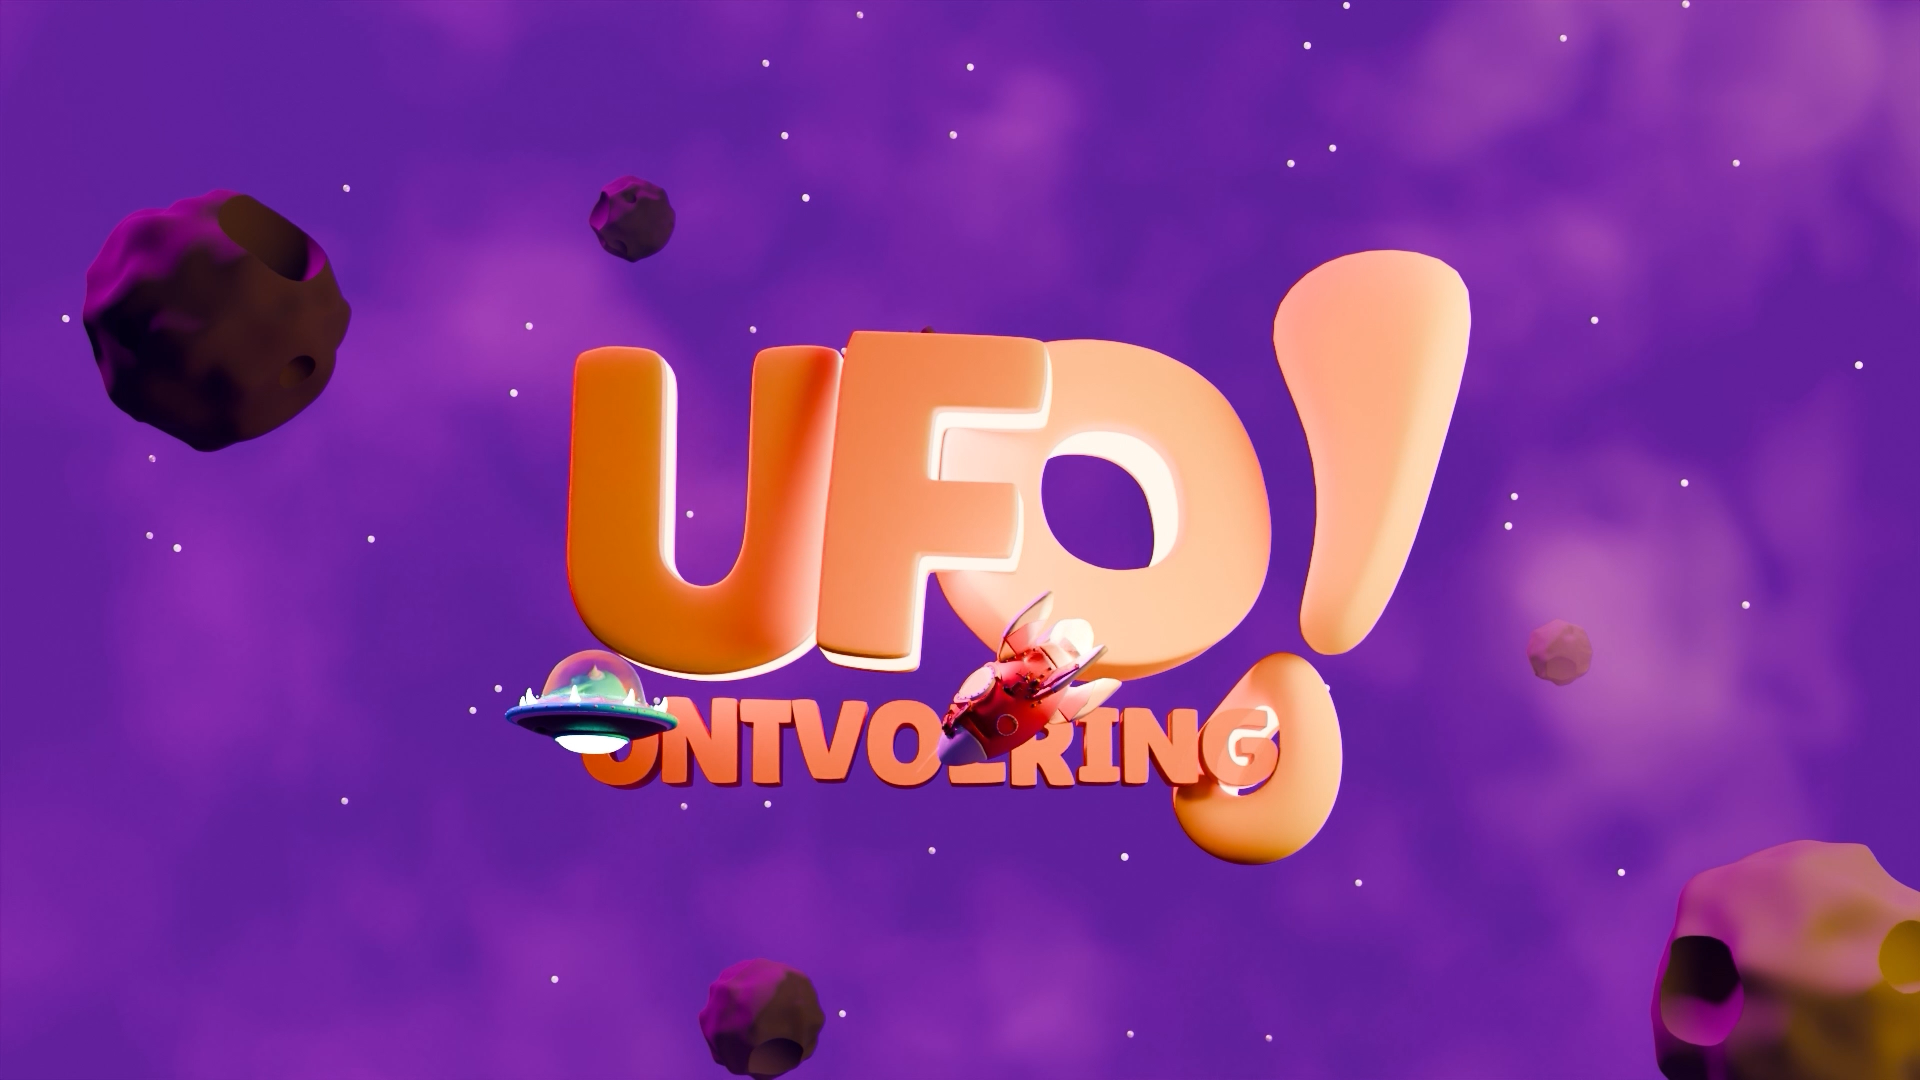
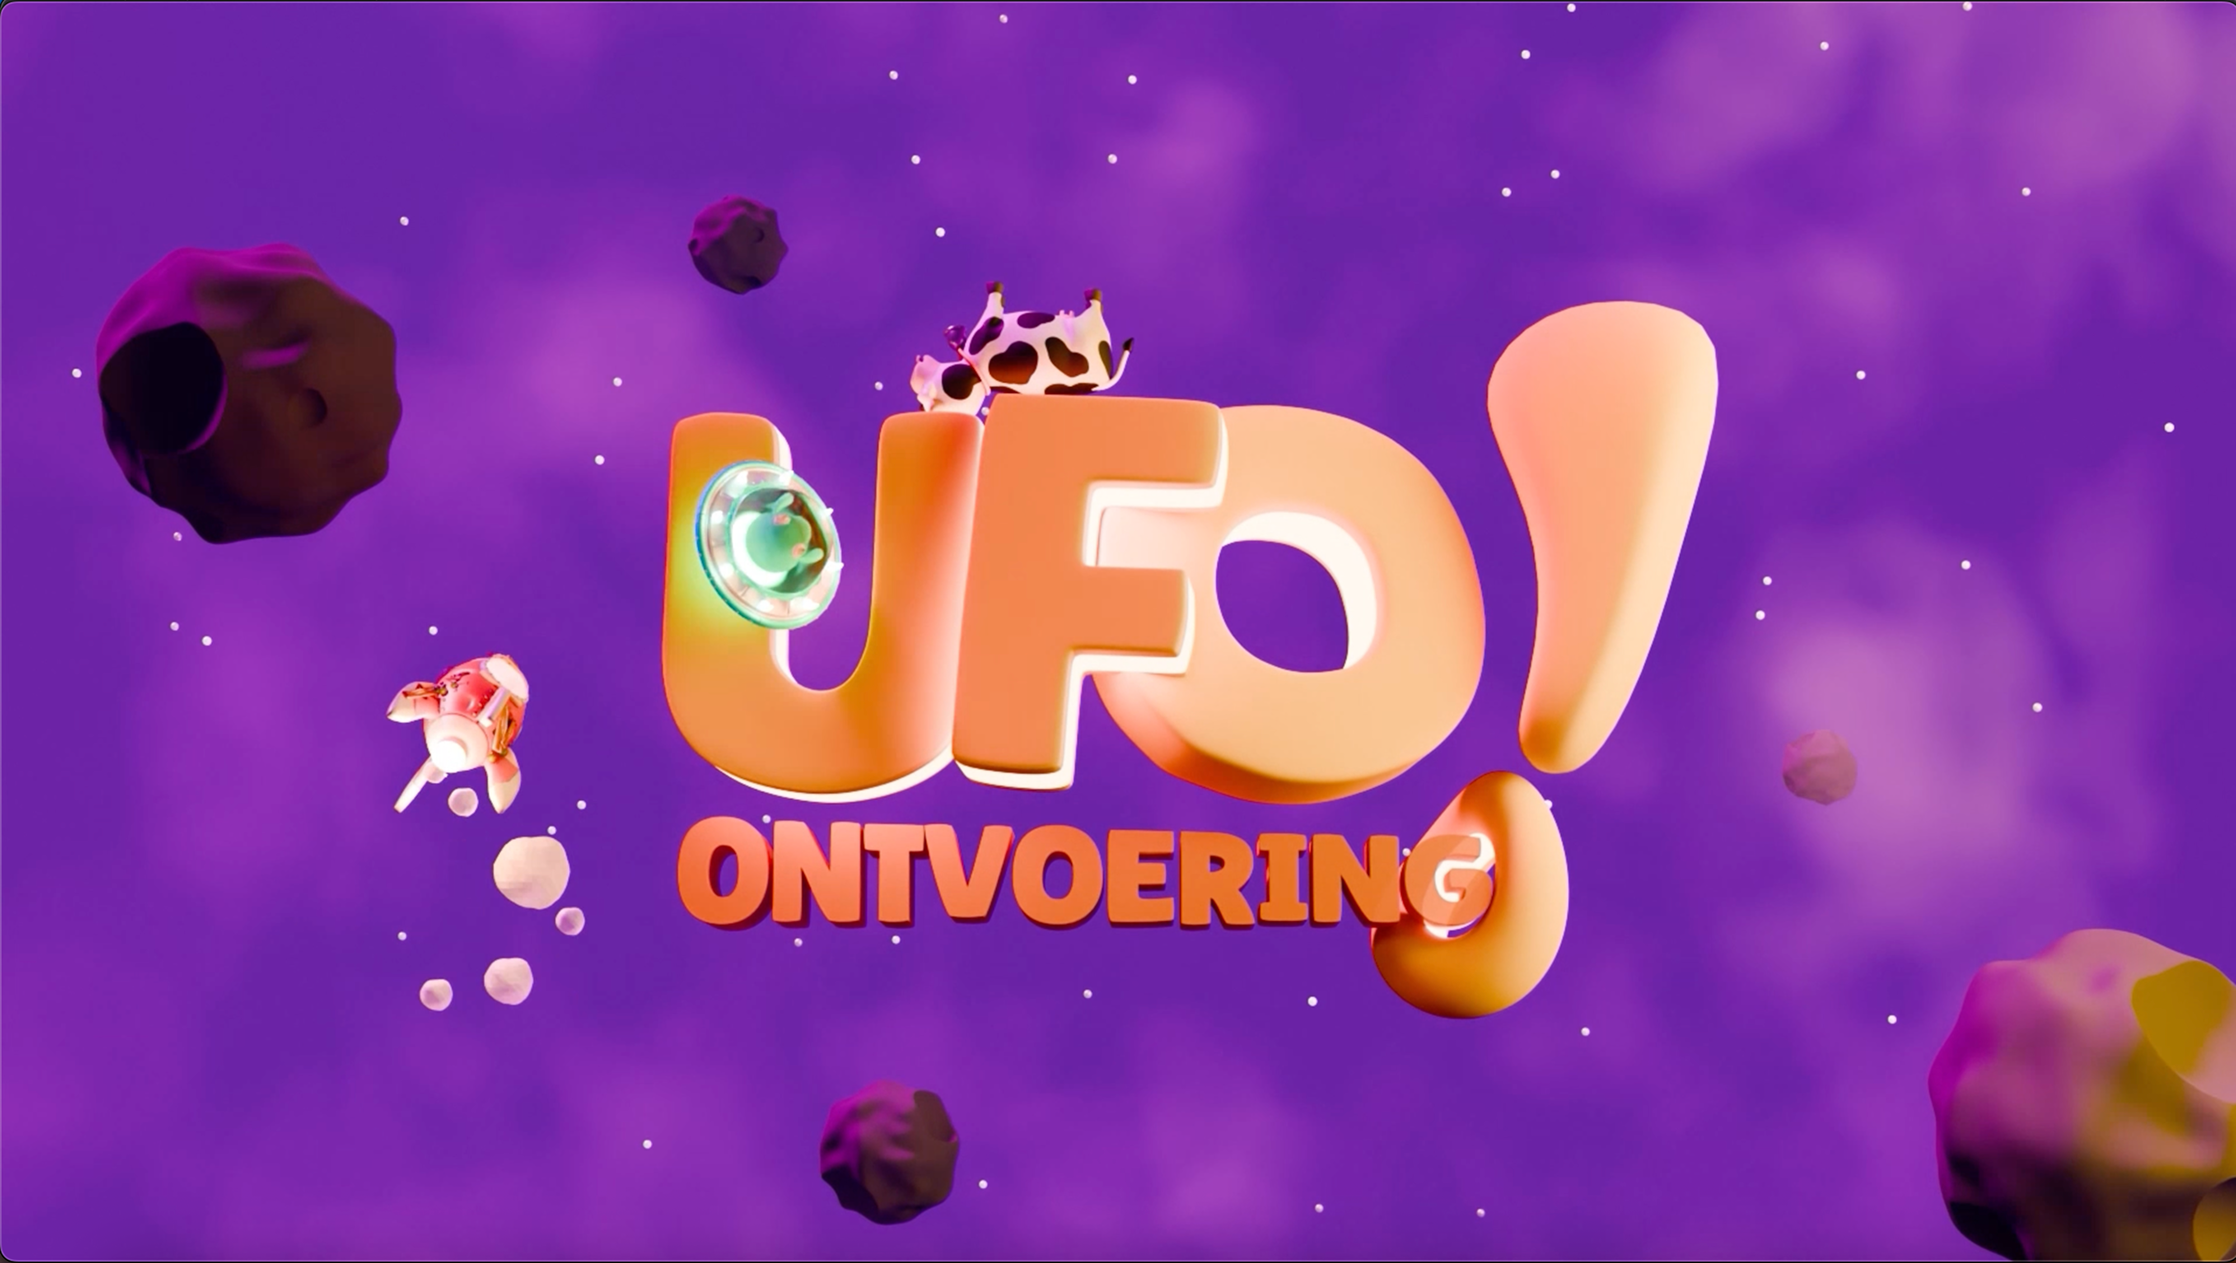
changed idlescreen, small ui fixes, added b button to skip to final level

diff --git a/src/ui.js b/src/ui.js
@@ -1,7 +1,7 @@
 import { connectToWitMotion, onWitmotionDisconnect, sensorData } from './witmotion.js';
 import * as GUI from '@babylonjs/gui';
 import * as BABYLON from '@babylonjs/core';
-import { preloadVideoTextures } from './videos.js';
+import { preloadVideoTextures, fitVideoToScreen } from './videos.js';
 import { createFadeTransition } from './effects.js';
 
 export const createHealthBarUI = (scene) => {
@@ -209,10 +209,12 @@ export const createGameOverScreen = (scene, onRestart, onQuit) => {
 
     //whatNow Image
     const whatNowImage = new GUI.Image("whatNowImage", "assets/images/background-restart-quit.jpeg");
-    whatNowImage.width = "100%";
-    whatNowImage.height = "100%";
-    whatNowImage.stretch = GUI.Image.STRETCH_FILL;
+    // whatNowImage.width = "100%"; // Handled by fitImageToScreen
+    // whatNowImage.height = "100%"; // Handled by fitImageToScreen
+    // whatNowImage.stretch = GUI.Image.STRETCH_FILL; // Handled by fitImageToScreen
     guiTexture.addControl(whatNowImage);
+    
+    const stopFitting = fitImageToScreen(whatNowImage, scene);
 
     //restart Image (Left)
     const restartImage = new GUI.Image("restartImage", "assets/images/restart.png");
@@ -384,6 +386,7 @@ export const createGameOverScreen = (scene, onRestart, onQuit) => {
     });
 
     const cleanup = () => {
+        stopFitting();
         if (guiTexture) guiTexture.dispose();
         if (observer) scene.onBeforeRenderObservable.remove(observer);
         if (opnieuwGif) opnieuwGif.remove();
@@ -489,6 +492,43 @@ const showReadyPopup = (scene, onReady) => {
     popupImage.onPointerUpObservable.add(finish);
 };
 
+// Helper to fit GUI image to screen (cover mode)
+const fitImageToScreen = (image, scene) => {
+    const updateScale = () => {
+        const screenWidth = scene.getEngine().getRenderWidth();
+        const screenHeight = scene.getEngine().getRenderHeight();
+        
+        const domImage = image.domImage;
+        if (!domImage || !domImage.width || !domImage.height) return;
+        
+        const imageWidth = domImage.width;
+        const imageHeight = domImage.height;
+        
+        const imageRatio = imageWidth / imageHeight;
+        const screenRatio = screenWidth / screenHeight;
+        
+        if (screenRatio > imageRatio) {
+            image.width = screenWidth + "px";
+            image.height = (screenWidth / imageRatio) + "px";
+        } else {
+            image.height = screenHeight + "px";
+            image.width = (screenHeight * imageRatio) + "px";
+        }
+    };
+    
+    if (image.isLoaded) {
+        updateScale();
+    } else {
+        image.onImageLoadedObservable.addOnce(updateScale);
+    }
+    
+    const observer = scene.onBeforeRenderObservable.add(updateScale);
+    
+    return () => {
+        scene.onBeforeRenderObservable.remove(observer);
+    };
+};
+
 export const createIdleScreen = (scene, countdown, levelManager, idleSound) => {
     //preload all video textures
     const videoTextures = preloadVideoTextures(scene);
@@ -498,6 +538,7 @@ export const createIdleScreen = (scene, countdown, levelManager, idleSound) => {
     const victoryVideoTexture = videoTextures.victory;
 
     let onKeyDown;
+    let stopFitting = () => {};
 
     const gameState = {
         isPlaying: false,
@@ -505,6 +546,7 @@ export const createIdleScreen = (scene, countdown, levelManager, idleSound) => {
         gameoverVideoTexture: gameoverVideoTexture,
         victoryVideoTexture: victoryVideoTexture,
         dispose: () => {
+            stopFitting();
             if (outroVideoTexture) outroVideoTexture.dispose();
             if (gameoverVideoTexture) gameoverVideoTexture.dispose();
             if (victoryVideoTexture) victoryVideoTexture.dispose();
@@ -516,6 +558,7 @@ export const createIdleScreen = (scene, countdown, levelManager, idleSound) => {
              if (gameState.isPlaying) return;
              gameState.isPlaying = true;
              
+             stopFitting();
              if (idleSound) idleSound.stop();
 
              if (motionObserver) {
@@ -533,15 +576,17 @@ export const createIdleScreen = (scene, countdown, levelManager, idleSound) => {
 
     //full screen idle image
     const idleImage = new GUI.Image("idleImage", "assets/images/idlescreen.png");
-    idleImage.width = "100%";
-    idleImage.height = "100%";
-    idleImage.stretch = GUI.Image.STRETCH_FILL; 
+    // idleImage.width = "100%"; // Handled by fitImageToScreen
+    // idleImage.height = "100%"; // Handled by fitImageToScreen
+    // idleImage.stretch = GUI.Image.STRETCH_FILL; // Handled by fitImageToScreen
     
     //make it clickable
     idleImage.isPointerBlocker = true;
     idleImage.hoverCursor = "pointer";
 
     guiTexture.addControl(idleImage);
+    
+    stopFitting = fitImageToScreen(idleImage, scene);
 
     const idleGif = createGifOverlay("idleGif", "assets/gifs/idlescreen.gif", {
         bottom: "50px",
@@ -619,10 +664,13 @@ export const createIdleScreen = (scene, countdown, levelManager, idleSound) => {
         const videoLayer = new BABYLON.Layer("introLayer", null, scene, false);
         videoLayer.texture = introVideoTexture;
         
+        const stopFitting = fitVideoToScreen(videoLayer, scene);
+
         const videoElement = introVideoTexture.video;
         
         videoElement.onended = () => {
             console.log("Video ended");
+            stopFitting();
             
             createFadeTransition(scene, () => {
                 //cleanup video
@@ -639,6 +687,7 @@ export const createIdleScreen = (scene, countdown, levelManager, idleSound) => {
         
         videoElement.onerror = (e) => {
             console.error("Video error:", e);
+            stopFitting();
             introVideoTexture.dispose();
             videoLayer.dispose();
             countdown.startCountdown(() => {
@@ -649,6 +698,7 @@ export const createIdleScreen = (scene, countdown, levelManager, idleSound) => {
         //ensure it plays
         videoElement.play().catch(e => {
             console.warn("Video play failed (autoplay policy?):", e);
+            stopFitting();
             introVideoTexture.dispose();
             videoLayer.dispose();
             countdown.startCountdown(() => {
@@ -713,8 +763,10 @@ export const createIdleScreen = (scene, countdown, levelManager, idleSound) => {
     });
 
     //s cheatcode om te starten zonder intro video
+    //b cheatcode om direct naar level 5 te gaan
     onKeyDown = (e) => {
-        if (e.key.toLowerCase() === 's' && !gameState.isPlaying) {
+        const key = e.key.toLowerCase();
+        if ((key === 's' || key === 'b') && !gameState.isPlaying) {
             if (BABYLON.Engine.audioEngine && BABYLON.Engine.audioEngine.audioContext) {
                 BABYLON.Engine.audioEngine.audioContext.resume();
             }
@@ -737,7 +789,11 @@ export const createIdleScreen = (scene, countdown, levelManager, idleSound) => {
             
             //start game directly
             countdown.startCountdown(() => {
-                levelManager.startFirstLevel();
+                if (key === 'b') {
+                    levelManager.startLevel(4); // Level 5 is index 4
+                } else {
+                    levelManager.startFirstLevel();
+                }
             });
             
             window.removeEventListener("keydown", onKeyDown);

diff --git a/src/videos.js b/src/videos.js
@@ -2,6 +2,51 @@ import * as BABYLON from '@babylonjs/core';
 import * as GUI from '@babylonjs/gui';
 import { createFadeTransition } from './effects.js';
 
+//helper to fit video texture to screen (cover mode)
+export const fitVideoToScreen = (layer, scene) => {
+    const updateScale = () => {
+        const texture = layer.texture;
+        if (!texture || !texture.video) return;
+
+        const video = texture.video;
+        const videoWidth = video.videoWidth;
+        const videoHeight = video.videoHeight;
+        const screenWidth = scene.getEngine().getRenderWidth();
+        const screenHeight = scene.getEngine().getRenderHeight();
+
+        if (videoWidth === 0 || videoHeight === 0) return;
+
+        const videoRatio = videoWidth / videoHeight;
+        const screenRatio = screenWidth / screenHeight;
+
+        //reset
+        texture.uScale = 1;
+        texture.vScale = 1;
+        texture.uOffset = 0;
+        texture.vOffset = 0;
+
+        if (screenRatio > videoRatio) {
+            //screen is wider than video -> Fit width, crop height
+            const scale = videoRatio / screenRatio;
+            texture.vScale = scale;
+            texture.vOffset = (1 - scale) / 2;
+        } else {
+            //screen is taller than video -> Fit height, crop width
+            const scale = screenRatio / videoRatio;
+            texture.uScale = scale;
+            texture.uOffset = (1 - scale) / 2;
+        }
+    };
+    
+    //resize observer
+    const observer = scene.onBeforeRenderObservable.add(updateScale);
+    
+    //return cleanup function
+    return () => {
+        scene.onBeforeRenderObservable.remove(observer);
+    };
+};
+
 export const preloadVideoTextures = (scene) => {
     const textures = {};
     
@@ -53,6 +98,7 @@ export const playEndSequence = (scene, outroTexture, victoryTexture, onComplete)
     }
 
     videoLayer.texture = currentVideoTexture;
+    const stopFitting = fitVideoToScreen(videoLayer, scene);
     const videoElement = currentVideoTexture.video;
     
     //critical for mobile/some browsers
@@ -91,6 +137,7 @@ export const playEndSequence = (scene, outroTexture, victoryTexture, onComplete)
     };
 
     const cleanup = () => {
+        stopFitting();
         if (victoryTexture && victoryTexture.video) {
             victoryTexture.video.onended = null;
         }
@@ -143,6 +190,7 @@ export const playGameOverSequence = (scene, preloadedTexture, onComplete) => {
     }
 
     videoLayer.texture = videoTexture;
+    const stopFitting = fitVideoToScreen(videoLayer, scene);
     const videoElement = videoTexture.video;
     
     //critical for mobile/some browsers
@@ -154,6 +202,7 @@ export const playGameOverSequence = (scene, preloadedTexture, onComplete) => {
     videoElement.currentTime = 0;
 
     const cleanup = () => {
+        stopFitting();
         if (typeof safetyTimeout !== 'undefined') clearTimeout(safetyTimeout);
         videoElement.onended = null;
         

diff --git a/src/powerups/health-boost.js b/src/powerups/health-boost.js
@@ -158,7 +158,7 @@ export const createHealthBoost = (scene, rocketship, healthManager, camera, audi
 
         let spawnX = 0;
         let attempts = 0;
-        const maxAttempts = 10;
+        const maxAttempts = 15;
         do {
             spawnX = (Math.random() - 0.5) * HEALTH_BOOST_CONFIG.spawnWidthRange;
             attempts++;

diff --git a/src/powerups/shield.js b/src/powerups/shield.js
@@ -161,7 +161,7 @@ export const createShield = (scene, rocketship, camera, audioEngine) => {
 
         let spawnX = 0;
         let attempts = 0;
-        const maxAttempts = 10;
+        const maxAttempts = 15;
         do {
             spawnX = (Math.random() - 0.5) * SHIELD_CONFIG.spawnWidthRange;
             attempts++;

diff --git a/src/levels.js b/src/levels.js
@@ -539,6 +539,7 @@ export const createLevelManager = (scene, asteroidSystem, ufo, healthBoost, shie
 
     return {
         startFirstLevel,
+        startLevel: (levelIndex) => startWave(levelIndex),
         reset,
         stop,
         cleanup,
